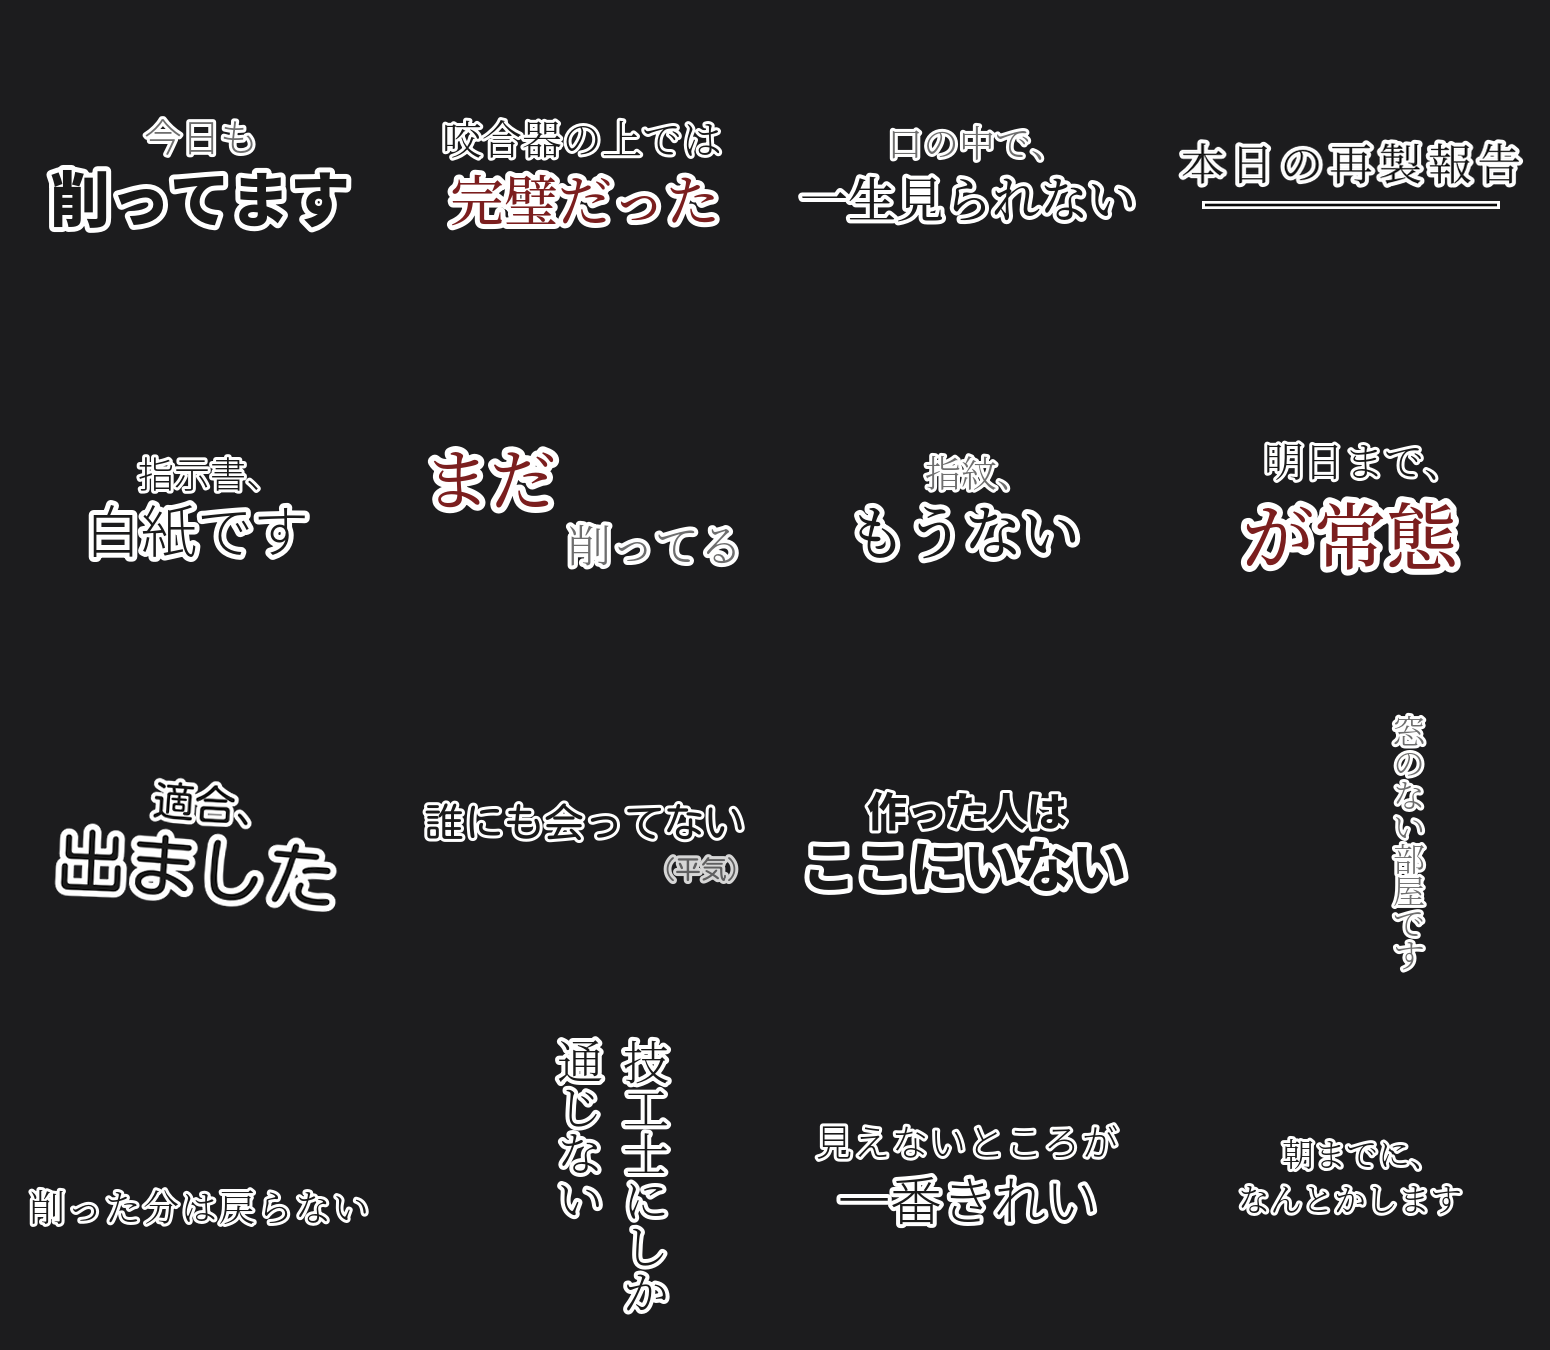
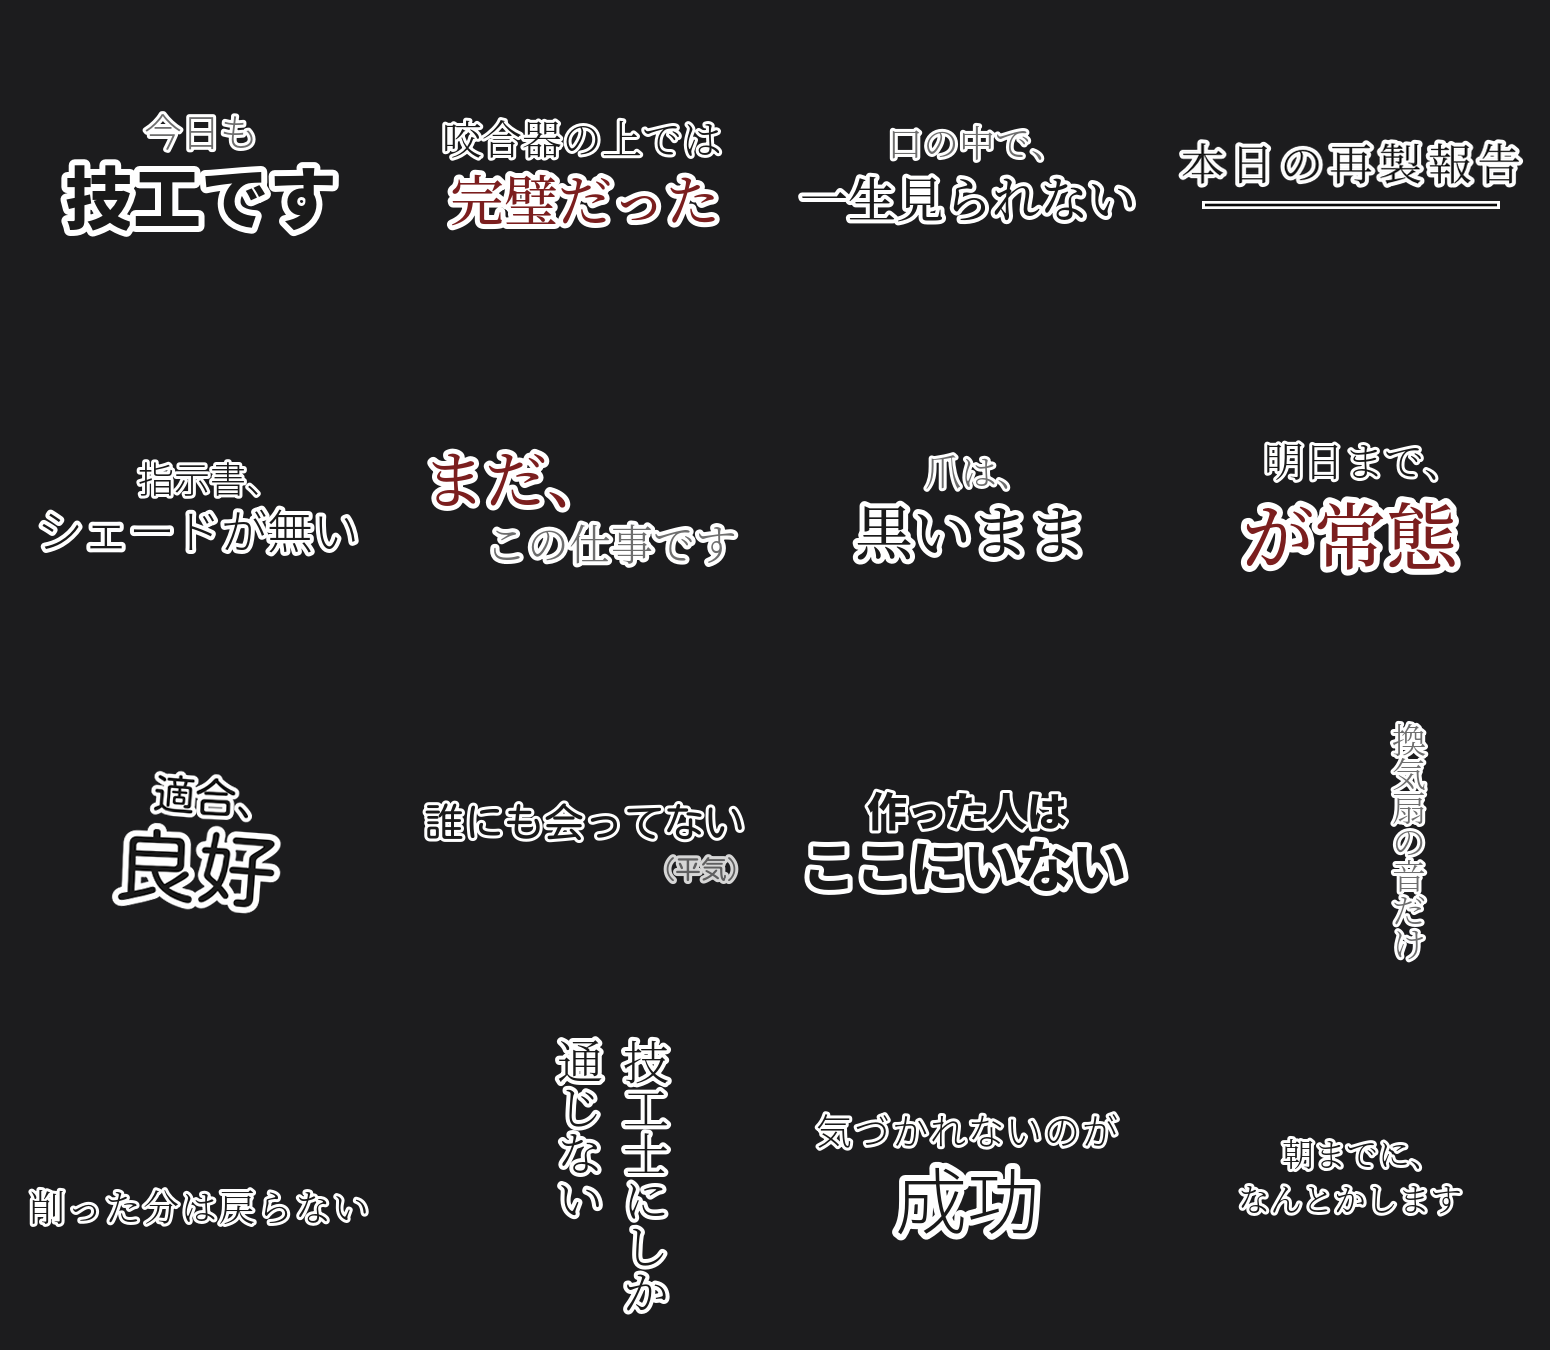
現役技工士の検品を反映。シリーズC 16枚中6枚を差し替え
ココナラで現役歯科技工士（2017年資格取得）に有料相談（2,000円）し、
16枚の文言を検品した結果を反映。

差し替えた6枚：
  01 今日も削ってます → 今日も技工です
     「CADを作ってる方もあまり削ると盛るは言っていない印象」
     「入れ歯を作っている技工所などは削る感じではないので
     　『今日も仕事』か『今日も技工』の方がしっくりきます」
     メイン画像とタブ画像も連動（タブ＝「技工」）
  05 指示書、白紙です → 指示書、シェードが無い
     「白紙はあんまり無いこと。名前が無いですやシェードが無いですの方が使う」
  06 まだ削ってる → まだ、この仕事です
  07 指紋、もうない → 爪は、黒いまま
     「指紋より爪の方が黒くなって研磨でなくなりがち」
  09 適合、出ました → 適合、良好
  12 窓のない部屋です → 換気扇の音だけ
     ★事実誤認だった★「換気が重要な作業も多いので窓はどこもある」
  15 見えないところが一番きれい → 気づかれないのが成功
     誇りの実体は「隠れた部分を丁寧に」ではなく「作り物だと
     気づかれないこと」だった。前歯を自前の歯に似せる、義歯のバネの
     位置を変えて見えなくする、という審美性の話。
     結果、この1枚だけがセットのテーマを反転させる札になった
     （01〜14は見られないことが喪失、15は見られないことが勝利）

確認が取れて維持したもの：
  02 咬合器の上では完璧だった …「1番再製になった時言いがちでわかる」
     16枚で最も刺さる札。看板として正しかった
  04 本日の再製報告 …「再製」は現場語として正しい
  13 削った分は戻らない … 13も削るを使うが指摘の射程外と判断。
     01/06は日々の仕事の自称、13は削りすぎたら戻せないという別の意味で、
     先方は16枚すべてを見たうえで13には触れていない

タグ・説明文・タイトル代替案も追随（12はタグ本体も孤独/単調に変更）。
説明文の「削ったもの」は「手がけたもの」に変更。

次の界隈にも効く学びを3点記録した：
  1. 職業の「自称動詞」は外部から推測できない。しかも01はメイン画像と
     タブ画像の元で、間違えるとストアのサムネイルごと外す
  2. 事実の誤りが1枚混ざっていた（12番の窓）。作業環境に触れる札は
     公開情報だけで書かないこと
  3. 誇り札は最も外しやすい。黒い札は不満を集めれば当たるが、
     何を誇りに思っているかは外から見えない

Claude-Session: https://claude.ai/code/session_01UDTUa1bMDdWcQFfqREUnMS

diff --git a/gen_setC.py b/gen_setC.py
@@ -14,9 +14,9 @@
 from sticker_engine import SUMI, CHI, HAI, render_set
 
 STICKERS = [
- ("今日も削ってます", {"blocks":[
+ ("今日も技工です", {"blocks":[
     {"text":"今日も","font":"sans_l","size":38,"color":HAI},
-    {"text":"削ってます","font":"black","size":60,"color":SUMI,"gap":6},
+    {"text":"技工です","font":"black","size":68,"color":SUMI,"gap":6},
  ]}),
  ("咬合器の上では完璧だった", {"blocks":[
     {"text":"咬合器の上では","font":"min_l","size":40,"color":SUMI},
@@ -30,25 +30,25 @@ STICKERS = [
     {"text":"本日の再製報告","font":"min_r","size":44,"color":SUMI,"spacing":6},
     {"type":"rule","width":296,"thick":3,"color":SUMI,"gap":14},
  ]}),
- ("指示書、白紙です", {"blocks":[
+ ("指示書、シェードが無い", {"blocks":[
     {"text":"指示書、","font":"sans_l","size":36,"color":SUMI},
-    {"text":"白紙です","font":"sans_l","size":56,"color":SUMI,"gap":6},
+    {"text":"シェードが無い","font":"sans_l","size":46,"color":SUMI,"gap":6},
  ]}),
- ("まだ削ってる", {"blocks":[
-    {"text":"まだ","font":"min_m","size":66,"color":CHI,"align":"left"},
-    {"text":"削ってる","font":"min_l","size":44,"color":HAI,"gap":6,"align":"right"},
+ ("まだ、この仕事です", {"blocks":[
+    {"text":"まだ、","font":"min_m","size":62,"color":CHI,"align":"left"},
+    {"text":"この仕事です","font":"min_l","size":42,"color":HAI,"gap":6,"align":"right"},
  ]}),
- ("指紋、もうない", {"blocks":[
-    {"text":"指紋、","font":"min_l","size":36,"color":HAI},
-    {"text":"もうない","font":"min_m","size":58,"color":SUMI,"gap":8},
+ ("爪は、黒いまま", {"blocks":[
+    {"text":"爪は、","font":"min_l","size":36,"color":HAI},
+    {"text":"黒いまま","font":"min_m","size":58,"color":SUMI,"gap":8},
  ]}),
  ("明日まで、が常態", {"blocks":[
     {"text":"明日まで、","font":"min_l","size":40,"color":SUMI},
     {"text":"が常態","font":"min_m","size":72,"color":CHI,"gap":12},
  ]}),
- ("適合、出ました", {"blocks":[
+ ("適合、良好", {"blocks":[
     {"text":"適合、","font":"maru","size":42,"color":SUMI,"jitter":1.7,"seed":3},
-    {"text":"出ました","font":"maru","size":70,"color":SUMI,"gap":4,"jitter":1.7,"seed":5},
+    {"text":"良好","font":"maru","size":80,"color":SUMI,"gap":4,"jitter":1.7,"seed":5},
  ], "rotate":-4}),
  ("誰にも会ってない（平気）", {"blocks":[
     {"text":"誰にも会ってない","font":"maru","size":40,"color":SUMI},
@@ -58,8 +58,8 @@ STICKERS = [
     {"text":"作った人は","font":"black","size":40,"color":SUMI},
     {"text":"ここにいない","font":"black","size":54,"color":SUMI,"gap":2},
  ]}),
- ("窓のない部屋です", {"blocks":[
-    {"type":"vertical","text":"窓のない部屋です","font":"min_l","size":32,"color":HAI,
+ ("換気扇の音だけ", {"blocks":[
+    {"type":"vertical","text":"換気扇の音だけ","font":"min_l","size":34,"color":HAI,
      "line":1.0,"dx":58},
  ]}),
  ("削った分は戻らない", {"blocks":[
@@ -69,9 +69,9 @@ STICKERS = [
     {"type":"vertical","text":["技工士にしか","通じない"],"font":"min_l","size":46,"color":SUMI,
      "line":1.0,"dx":30},
  ]}),
- ("見えないところが一番きれい", {"blocks":[
-    {"text":"見えないところが","font":"sans_l","size":36,"color":SUMI,"spacing":2},
-    {"text":"一番きれい","font":"sans_l","size":52,"color":SUMI,"gap":10},
+ ("気づかれないのが成功", {"blocks":[
+    {"text":"気づかれないのが","font":"sans_l","size":36,"color":SUMI,"spacing":2},
+    {"text":"成功","font":"sans_l","size":72,"color":SUMI,"gap":10},
  ]}),
  ("朝までに、なんとかします", {"blocks":[
     {"text":"朝までに、","font":"min_l","size":32,"color":SUMI},
@@ -81,9 +81,9 @@ STICKERS = [
 
 MAIN = {"blocks":[
     {"text":"今日も","font":"sans_l","size":28,"color":HAI},
-    {"text":"削ってます","font":"black","size":42,"color":SUMI,"gap":6},
+    {"text":"技工です","font":"black","size":48,"color":SUMI,"gap":6},
 ]}
-TAB = {"blocks":[{"text":"削る","font":"black","size":28,"color":SUMI}]}
+TAB = {"blocks":[{"text":"技工","font":"black","size":28,"color":SUMI}]}
 
 if __name__ == "__main__":
     problems = render_set("stickers/setC", 'シリーズC「不可視版」1セット目 16枚',

diff --git a/tools/assign_tagsC.py b/tools/assign_tagsC.py
@@ -6,21 +6,21 @@ import json
 POOL=set(open("tags_master.txt",encoding="utf-8").read().split("\n"))
 C=json.load(open("tag_cats.json",encoding="utf-8"))
 SETC=[
-("今日も削ってます",      ["仕事中","出勤","今","忙しい","頑張る","本気","真面目","マッハ","ダッシュ"]),
+("今日も技工です",        ["仕事中","出勤","今","忙しい","頑張る","本気","真面目","マッハ","ダッシュ"]),
 ("咬合器の上では完璧だった",["まさか","がーん","あちゃー","ショック","無念","悔しい","衝撃","ありえない","残念"]),
 ("口の中で、一生見られない",["寂しい","空虚","しんみり","もやもや","ぼーっとする","喪失","ない","悲しい","涙"]),
 ("本日の再製報告",        ["疲れた","バテる","とほほ","どんまい","がっかり","ちくしょー","しょんぼり","へこむ","参る"]),
-("指示書、白紙です",      ["意味不明","わからない","唖然","ぽかーん","困る","え？","何故","はぁ？","呆れる"]),
-("まだ削ってる",          ["大丈夫","復活","一生懸命","必死","我慢","ある","元気","しっかり","気合"]),
-("指紋、もうない",        ["廃人","ぐったり","抜け殻","限界","しんどい","体調不良","ふらふら","だるい","弱った"]),
+("指示書、シェードが無い",["意味不明","わからない","唖然","ぽかーん","困る","え？","何故","はぁ？","呆れる"]),
+("まだ、この仕事です",    ["大丈夫","復活","一生懸命","必死","我慢","ある","元気","しっかり","気合"]),
+("爪は、黒いまま",        ["廃人","ぐったり","抜け殻","限界","しんどい","体調不良","ふらふら","だるい","弱った"]),
 ("明日まで、が常態",      ["早く","急ぐ","ピンチ","緊急","テンパる","プレッシャー","焦る","遅刻","ひやひや"]),
-("適合、出ました",        ["やった","きたー","よし","バンザイ","最高","嬉しい","さすが","お見事","ラッキー"]),
+("適合、良好",            ["やった","きたー","よし","バンザイ","最高","嬉しい","さすが","お見事","ラッキー"]),
 ("誰にも会ってない（平気）",["内緒","こっそり","隠れる","もじもじ","ひそひそ","落ちこむ","塞ぐ","何でもない","謙遜"]),
 ("作った人はここにいない",  ["むかつく","最低","不満","いらいら","ぷんぷん","腹が立つ","チェッ","やれやれ","真顔"]),
-("窓のない部屋です",      ["憂鬱","どんより","逃走","うろうろ","悩む","考える","寒い","恐ろしい","ゾクゾク"]),
+("換気扇の音だけ",        ["憂鬱","どんより","だらだら","しらける","面倒","うろうろ","悩む","考える","寒い"]),
 ("削った分は戻らない",    ["後悔","反省","しまった","無理","だめ","却下","拒否","ちーん","呆然"]),
 ("技工士にしか通じない",  ["わかるわかる","それな","確かに","そうそう","うんうん","なるほど","間違いない","もちろん","そっか"]),
-("見えないところが一番きれい",["どや","えっへん","一番","すごい","かっこいい","素晴らしい","満足","素敵","100点"]),
+("気づかれないのが成功",  ["どや","えっへん","一番","すごい","かっこいい","素晴らしい","満足","素敵","100点"]),
 ("朝までに、なんとかします",["了解","承知","任せろ","任せた","OK","問題ない","わかった","眠い","あくび"]),
 ]
 ok=True; used={}

diff --git a/README.md b/README.md
@@ -7,7 +7,7 @@
 |---|---|---|
 | B「呪詛版」1・2セット目 | コールセンター | **審査承認済み**（販売開始は8/31まで押さない） |
 | A「諦念版」（キャラ入り） | コールセンター | **審査承認済み**（同上） |
-| C「不可視版」 | **歯科技工士** | 完成。**特集参加で申請する**（受付中を確認済み） |
+| C「不可視版」 | **歯科技工士** | **現役技工士の検品を反映（6枚差し替え）。申請可** |
 | D「誤認版」 | **歯科衛生士** | 完成。**申請は10/13以降**。特集には出さない |
 | E「未経験版」 | **部活動顧問（専門外）** | 完成。**申請は実績を見てから**（11月上旬目安） |
 
@@ -35,8 +35,8 @@
 
 | 時期 | やること |
 |---|---|
-| 〜8/25 | 用語の検品。**返事が来なければ他の出品者2〜3人に並行でDM**。Xの反応ゼロは想定内で再投稿しない |
-| 8/25 | **01番の文言を決める。** 比較シート `stickers/_compare/setC01_light.png` を見て判断 |
+| ~~〜8/25~~ | ~~用語の検品~~ → **完了（8/18）。16枚中6枚を差し替え済み** |
+| 〜8/25 | ②（カウンセラー・元技工士）の回答待ち。「送るのをためらう札」が出たら再修正 |
 | **8/20〜8/25** | Cを申請。**特集参加チェック／250円／販売開始は手動**。実質の申請期限は9/5頃（9/12発売の場合）なので余裕がある |
 | 8/23 頃 | C承認見込み |
 | 8/8〜8/30 | **押さない**（8/31前に販売開始すると特集の新着欄から外れる） |
@@ -145,7 +145,7 @@
 |---|---|---|---|
 | B 1セット目 | コールセンター | 実況と連帯 | 外へ投げる黒さ。オープンチャットに放り込む言葉 |
 | B 2セット目 | コールセンター | 壊れの実況 | 内向きの黒さ。自分が壊れるのを他人事として報告する |
-| C 1セット目 | 歯科技工士 | 不可視 | 見られていない黒さ。削ったものは口の中に入って二度と見られず、作った人の名前も出ない |
+| C 1セット目 | 歯科技工士 | 不可視 | 見られていない黒さ。手がけたものは口の中に入って二度と見られず、作った人の名前も出ない。**15だけが反転し、気づかれないことが勝利になる** |
 | D 1セット目 | 歯科衛生士 | 誤認 | 間違われている黒さ。助手と呼ばれ、15分で終わると思われ、磨けていると言われる |
 | E 1セット目 | 部活動顧問（専門外） | 未経験 | やったことがないのにやらされている黒さ。顧問も競技も土日も選べない |
 
